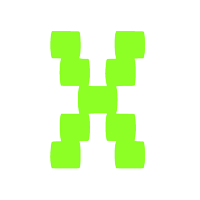
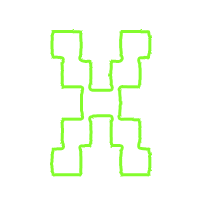
Upgrade CSS styling

Changed region(s): [[0.24, 0.15, 0.78, 0.9]]

diff --git a/style.css b/style.css
@@ -7,19 +7,20 @@ body {
 	font-family: VT323, sans-serif;
 	font-size: 14px;
 /*	overflow: hidden;
-*/	background: url('binary.gif');
+*/	background: url('trippybg1.gif');
 }
 div {
 	border: 1px solid #000;
 }
 header {
-	color: #0f0;
+	color: rgba(0,240,0,0.8);
 	text-align:center;
 	padding: 5px 0 5px 0;
 	font-size: 8em;
 	position: absolute;
 	top: 0;
 	width: 100%;
+	-webkit-text-stroke: 2px #0f0;
 	text-shadow: 0px 0px 35px #000;
 }
 #wrapper {
@@ -67,19 +68,21 @@ header {
 /*	display: none;
 */	width: 456px;
 	height: 456px;
-	background-color: #0f0;
-	color: #fff;
-	-webkit-text-stroke: 1px #009b00;
+	background: url('binary.gif');
+/*	background-size: cover;
+*/	color: #fff;
+	text-shadow: 0px 0px 55px #000;
 	text-align: center;
 	font-size: 10em;
 	margin: 0 auto;
 	position: absolute;
 	z-index: 1;
+	box-shadow: 0px 0px 55px #000;
 }
 
 .wintext {
-	font-size: 36px;
-	color: #000;
+	font-size: 56px;
+	color: #fff;
 }
 
 #reset {
@@ -91,7 +94,9 @@ header {
 	font-size: 3em;
 	color: #0f0;
 	background: rgba(255,255,255,0.9);
+	box-shadow: 0px 0px 35px #000;
 	-webkit-text-stroke: 1px #009b00;
+	border: 2px solid #0f0;
 }
 #reset:hover {
 	color: #fff;

diff --git a/index.html b/index.html
@@ -9,7 +9,7 @@
 <script src="main.js"></script>
 </head>
 <body ng-app="toeApp">
-  <header>TIC TAC TOE</header>
+  <header>T1C TAC T0E</header>
   <div ng-controller="GameController">
     <!-- this wrapper div is just wide enough to have 3 boxes across & 3 boxes tall -->
     <div id="wrapper">
